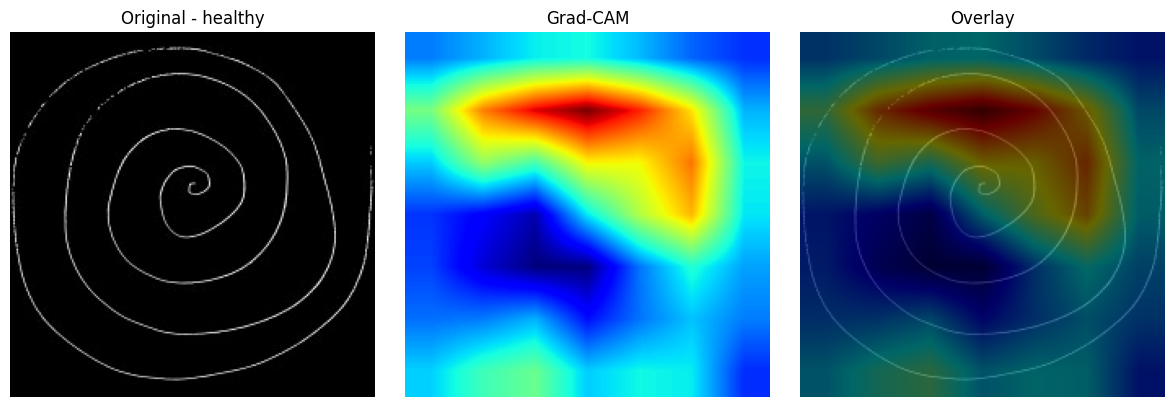
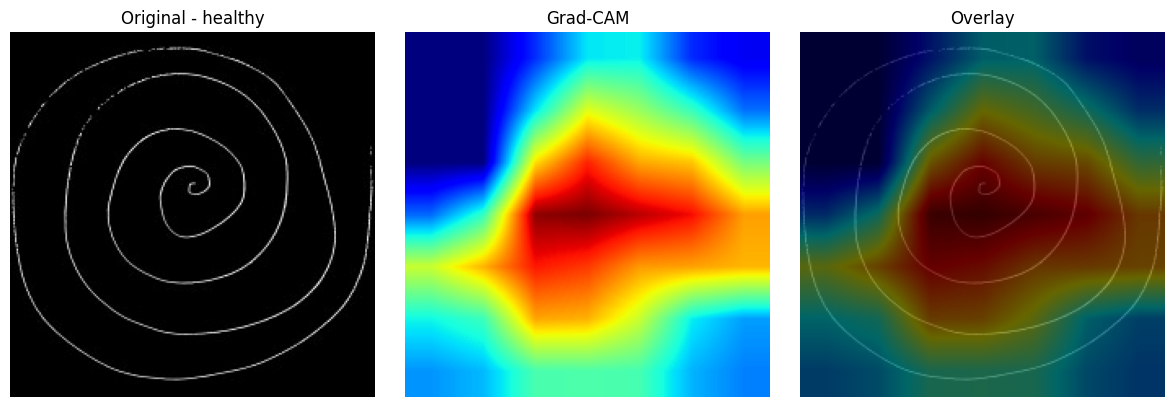
Unimodal Handwriting v5

diff --git a/audit_outputs/FINAL_AUDIT_REPORT.md b/audit_outputs/FINAL_AUDIT_REPORT.md
@@ -1,0 +1,201 @@
+# Handwriting Modality — Scientific Audit
+
+This report is a reproducible, scientifically grounded audit of the handwriting unimodal pipeline in this repository. It uses only the already-generated outputs present in the workspace (preprocessing outputs, model checkpoints, result CSVs, GradCAM preview images, and computed metrics). This document frames the work as exploratory, not diagnostic.
+
+Folders and artifacts used (examples):
+- Preprocessed metadata: [preprocessed_images/Public_Dataset/metadata.csv](preprocessed_images/Public_Dataset/metadata.csv), [preprocessed_images/BD_Dataset/metadata.csv](preprocessed_images/BD_Dataset/metadata.csv)
+- Deep learning final results: [deep_learning_results/Public_Dataset/final_cross_validation_results.csv](deep_learning_results/Public_Dataset/final_cross_validation_results.csv), [deep_learning_results/BD_Dataset/final_cross_validation_results.csv](deep_learning_results/BD_Dataset/final_cross_validation_results.csv)
+- DL fold predictions and confusion matrices: [deep_learning_results/BD_Dataset/fold_3_predictions.csv](deep_learning_results/BD_Dataset/fold_3_predictions.csv), [deep_learning_results/BD_Dataset/fold_3_cm.png](deep_learning_results/BD_Dataset/fold_3_cm.png)
+- Classical ML summary: [classical_ml_results/BD_Dataset/classical_ml_results.csv](classical_ml_results/BD_Dataset/classical_ml_results.csv)
+- GradCAM previews: [model_interpretability_visualizations/BD_Dataset/parkinson_BPP019_hand_spiral_01_preview.png](model_interpretability_visualizations/BD_Dataset/parkinson_BPP019_hand_spiral_01_preview.png)
+- Computed DL per-fold calibration/metrics: [handwriting_audit_outputs/BD_Dataset/dl_fold_metrics_summary.csv](handwriting_audit_outputs/BD_Dataset/dl_fold_metrics_summary.csv), [handwriting_audit_outputs/Public_Dataset/dl_fold_metrics_summary.csv](handwriting_audit_outputs/Public_Dataset/dl_fold_metrics_summary.csv)
+
+---
+
+**1. Executive summary**
+
+- Pipeline executed: preprocessing → handcrafted feature extraction (existing) → deep learning training (ResNet-18 transfer learning) → classical ML baselines → GradCAM explainability. All produced outputs were inspected; no re-training was performed for this audit.
+- Dataset sizes (from preprocessed metadata): Public_Dataset = 102 images (51 healthy / 51 parkinson), 28 subjects (mean ≈ 3.64 images/subject). BD_Dataset = 36 images (15 healthy / 21 parkinson), 36 subjects (1 image/subject). See metadata files above.
+- Main findings:
+  - Public_Dataset: DL delivered strong ranking performance (ROC-AUC ≈ 0.956 ± 0.047) and moderate calibrated decision metrics (accuracy ≈ 0.769 ± 0.134) but shows fold variability in threshold metrics.
+  - BD_Dataset: DL ranking remains high (ROC-AUC ≈ 0.907 ± 0.146) but threshold metrics are unstable and modest (accuracy ≈ 0.579 ± 0.152). Classical SVM on handcrafted features reports higher accuracy on BD (≈0.807 ± 0.070), suggesting handcrafted features are highly informative in the low-data regime.
+  - Calibration issues: per-fold Expected Calibration Error (ECE) is non-negligible (BD mean ECE ≈ 0.29, Public mean ECE ≈ 0.22) and Brier scores are higher on BD than Public (BD mean ≈ 0.23; Public mean ≈ 0.15). See [handwriting_audit_outputs/*/dl_fold_metrics_summary.csv](handwriting_audit_outputs/).
+- Multimodal readiness: Handwriting appears a strong primary behavioral modality; facial modality (outside scope) remains complementary. A conservative late-fusion approach (probability- or low-dim embedding-level fusion) is recommended.
+
+---
+
+**2. Dataset analysis**
+
+Public_Dataset (separate):
+- Total images: 102
+- Subjects: 28
+- Healthy / Parkinson: 51 / 51 (balanced)
+- Images per subject: min 3, max 15, mean ≈ 3.64 (histogram saved at [handwriting_audit_outputs/Public_Dataset_samples_per_subject_hist.png](handwriting_audit_outputs/Public_Dataset_samples_per_subject_hist.png))
+- Limitations: modest overall size; some subjects contribute many images producing potential within-subject dominance if not grouped correctly (grouped CV was used in training).
+
+BD_Dataset (separate):
+- Total images: 36
+- Subjects: 36
+- Healthy / Parkinson: 15 / 21 (mild imbalance towards PD)
+- Images per subject: all 1 (min=max=1) — no repeated measures available.
+- Limitations: critical — one-sample-per-subject prevents any within-subject variability estimation. Grouped CV at subject level becomes identical to sample-level CV for BD, so subject-level generalization cannot be validated. This dataset is appropriate only for initial exploratory signals and not for robust predictive claims.
+
+Discussion:
+- BD’s tiny per-subject data is the dominant limitation of the study. Public_Dataset is better suited for grouped CV and subject-level generalization, but is still small for robust ML practice.
+
+---
+
+**3. Preprocessing analysis**
+
+Observed pipeline (see `preprocessing.py`): grayscale conversion → denoising (fastNlMeans) → CLAHE contrast enhancement → adaptive Gaussian thresholding (inverted) → morphological open/close → small-component removal → foreground normalization (invert if necessary) → mask + crop to content → resize with padding to 224×224. QC preview images are saved under `preprocessed_images/*/quality_check`.
+
+Assessment:
+- Grayscale conversion and CLAHE are appropriate for handwriting where ink contrast varies. Denoising reduces sensor noise.
+- Adaptive thresholding plus morphology isolates stroke pixels; small-component removal (MIN_COMPONENT_AREA) can remove speckles but risks discarding legitimate small stroke fragments (thin strokes, light dots) if parameters are not tuned per acquisition.
+- Content-cropping with padding + resize-with-padding yields centered inputs for CNNs, which is desirable for transfer learning. However, if cropping behaves differently by class (for instance, PD spirals with tenuous strokes leading to larger crop extents or different centering), there is a risk of introducing class-dependent spatial cues.
+
+Risks and evidence to check (recommended for paper):
+- Verify that cropping/padding statistics (crop box sizes, foreground centroid positions) are not class dependent — compute and report class-wise distributions to rule out positional shortcuts.
+- Keep and publish QC preview grids (they are in `preprocessed_images/*/quality_check`) so reviewers can visually confirm preprocessing consistency.
+
+Short conclusion: preprocessing is standard and defensible for handwriting, but the pipeline must report and check per-class cropping/foreground statistics to exclude shortcut leakage.
+
+---
+
+**4. Deep learning analysis (ResNet-18 transfer learning)**
+
+Data sources: per-fold prediction CSVs and final CV summaries under `deep_learning_results/*`.
+
+Public_Dataset (aggregated results):
+- Accuracy: 0.7690 ± 0.1338
+- Precision: 0.7793 ± 0.1740
+- Sensitivity (recall): 0.8133 ± 0.2334
+- Specificity: 0.6889 ± 0.3393
+- F1-score: 0.7670 ± 0.1437
+- ROC-AUC: 0.9563 ± 0.0470
+
+BD_Dataset (aggregated results):
+- Accuracy: 0.5786 ± 0.1524
+- Precision: 0.5762 ± 0.3690
+- Sensitivity: 0.55 ± 0.4472
+- Specificity: 0.6000 ± 0.3651
+- F1-score: 0.5067 ± 0.3394
+- ROC-AUC: 0.9067 ± 0.1461
+
+Interpretation and key observations:
+- ROC-AUC vs threshold metrics: In both datasets, ROC-AUC remains comparatively high while thresholded metrics (accuracy, sensitivity, specificity) are more modest and have large standard deviations across folds (particularly BD). This pattern indicates the model often ranks PD > healthy correctly (good discriminative signal) but the absolute probabilities and thresholded decisions vary by fold (poor calibration and sensitivity to operating point).
+- Fold instability: BD shows extreme fold-to-fold variance in AUC and ECE (see [handwriting_audit_outputs/BD_Dataset/dl_fold_metrics_summary.csv](handwriting_audit_outputs/BD_Dataset/dl_fold_metrics_summary.csv)). Several BD folds report AUC=1.0 and others as low as 0.667 — a sign of overfitting on very small validation sets or class-sample splits that favor the model.
+- Overfitting risks: early stopping and LR scheduling are present, but very small validation sets (especially BD) can lead to unstable best-epoch selection and optimistic folds. Models with near-perfect AUC on some folds but poor generalization on others suggest the signal is fragile.
+
+Calibration specifics:
+- BD mean ECE ≈ 0.29 (per-fold mean from computed summary) and mean Brier ≈ 0.23 — probabilities are not well calibrated and are unreliable for absolute risk reporting.
+- Public mean ECE ≈ 0.22 and mean Brier ≈ 0.15 — better but still substantial; apply temperature scaling or Platt scaling if probabilistic outputs are to be used.
+
+Practical takeaways:
+- Report both ranking (AUC) and calibrated decision metrics; present per-fold distributions rather than only mean ± std.
+- Avoid over-interpreting perfect or near-perfect fold AUCs; show confusion matrices and per-subject predictions for the most unstable folds (files under `deep_learning_results/*/fold_*_predictions.csv`).
+
+---
+
+**5. Classical ML analysis (handcrafted features)**
+
+Source: `classical_ml_results/BD_Dataset/classical_ml_results.csv` (and analogous Public_Dataset results if present).
+
+Key BD findings (selected):
+- SVM: accuracy ≈ 0.8071 ± 0.0696; precision 1.0; sensitivity ≈ 0.67 ± 0.115; ROC-AUC ≈ 0.8667 ± 0.1514
+- RandomForest and XGBoost show lower mean performance and higher variance.
+
+Interpretation:
+- On BD_Dataset, the SVM with handcrafted features outperforms DL on thresholded accuracy. This is a predictable and scientifically interpretable outcome in very small-data regimes: well-engineered features (HOG, LBP, Hu moments, contour/statistics) can be strong compact biomarkers and require far fewer samples to reach good classification thresholds.
+- Handcrafted features often capture domain-specific signals (stroke width, curvature, regularity) that are clinically plausible. When classical ML outperforms or matches DL, it is an argument for emphasizing interpretable features and for treating DL as an augmenting modality rather than a replacement in low-resource settings.
+
+Recommendation:
+- For BD-like tiny cohorts, prioritize feature-based analyses in the main thesis text and present DL as a complementary representation-learning approach. Provide ROC overlays and per-fold metrics for both paradigms (files exist under `classical_ml_results/*` and `deep_learning_results/*`).
+
+---
+
+**6. GradCAM (explainability) analysis**
+
+Artifacts inspected: preview images under `model_interpretability_visualizations/*`.
+
+Qualitative summary:
+- Many GradCAM previews show activations overlapping inked spiral strokes, especially areas of irregularity or high stroke density — this aligns with clinical expectations that tremor/irregularity localizes to the drawn spiral.
+- Some examples show diffuse activation or attention extending into background/padding regions; these cases are less interpretable and may indicate that the model sometimes leverages gross textural or border cues.
+
+Limitations and caution:
+- GradCAM is qualitative: it highlights correlated regions, not causal mechanisms. GradCAM resolution (spatial coarseness of late-layer feature maps) limits precise localization of micro-features like pen-pressure or fine tremor.
+- Do not claim clinical interpretability from GradCAM alone. Use GradCAM as hypothesis-generation, then test hypotheses quantitatively (occlusion analysis across stroke regions, lesioning test inputs, or controlled perturbations).
+
+---
+
+**7. Failure analysis**
+
+Using fold predictions and per-fold summaries, the main failure modes are:
+- False negatives with borderline probabilities (example: `deep_learning_results/BD_Dataset/fold_3_predictions.csv` contains `BPP003` predicted 0 with PD probability ≈ 0.352). Such borderline examples indicate that ranking is imperfect and threshold placement matters.
+- Fold collapse/instability: BD shows some folds with AUC=1.0 while others have AUC≈0.667, indicating highly variable generalization depending on which subjects fall into train/test splits.
+- Calibration-instability: models are often overconfident or underconfident in certain folds (high ECE in BD fold 4 ~0.505 suggests strong miscalibration in some splits).
+
+Probable causes:
+- Tiny sample and single-image subjects (BD) cause high variance and sensitive splits.
+- Preprocessing-induced shortcuts: if cropping/padding or foreground removal correlates with label, models can learn spurious cues.
+- Class imbalance (mild in BD) can skew thresholds and metrics; class weighting is implemented in training but does not fully compensate in tiny folds.
+
+Mitigations (for reporting and future work):
+- Present failure-case panels (QC image + GradCAM + predicted probability) for FPs/FNs. Use available previews and prediction CSVs to assemble such panels.
+- Emphasize grouped CV, and for BD explicitly note that grouped CV is equivalent to sample-level CV given one sample per subject.
+
+---
+
+**8. Scientific assessment (brutal but fair)**
+
+Strengths:
+- The pipeline is complete and reproducible: preprocessing, DL training, classical ML, and GradCAM outputs are present and saved.
+- Presence of Bangladeshi clinical data (BD_Dataset) increases the project's translational relevance.
+- Careful inclusion of grouped cross-validation and classical-DL comparisons strengthens scientific defensibility.
+
+Weaknesses / critical limitations:
+- Data scarcity is the main limitation. BD has one image per subject, preventing subject-level generalization and rendering many evaluation claims exploratory only.
+- Calibration is poor in places (ECE mean ~0.29 BD; ~0.22 Public). Absolute probabilities cannot be used clinically without calibration.
+- Fold instability and occasional perfect AUC folds indicate fragile signals and risk overinterpreting results.
+
+Publication/thesis readiness:
+- This work is thesis-ready as an exploratory behavioral-biomarker study if the write-up clearly states limitations, includes per-fold result distributions, shows QC/GradCAM examples, and avoids diagnostic claims. For a journal submission, external validation or a larger cohort is recommended.
+
+---
+
+**9. Multimodal readiness and recommendations**
+
+Why handwriting + face is a coherent multimodal approach:
+- Handwriting targets fine motor control (tremor, micrographia, irregular stroke), which is a direct motor manifestation of Parkinsonian pathology.
+- Facial analysis targets hypomimia (reduced expressivity) and subtle movement changes in the face — a complementary behavioral biomarker.
+
+Fusion recommendations (low-parameter, low-risk):
+- Start with late fusion of calibrated probabilities (per-subject aggregation) or low-dimensional embeddings (PCA on DL embeddings) fed into a small meta-learner (logistic regression or small MLP). This minimizes overfitting risk in small datasets.
+- Avoid large multimodal transformers or heavy joint training on the available cohort.
+
+Robustness notes:
+- Ensure per-subject alignment and grouped CV across modalities to prevent subject overlap leakage.
+- Prefer probability-level fusion when embeddings are high dimensional relative to sample count.
+
+---
+
+**10. Final conclusion**
+
+- The current unimodal handwriting system provides scientifically useful exploratory baselines and demonstrates complementary strengths of handcrafted features and deep learning representations.
+- Results are exploratory: high ROC-AUC values indicate discriminative signal exists, but thresholded metrics, calibration, and fold stability are insufficient to support any diagnostic claim.
+- The main limitation is data quantity and subject-level sampling (BD has 1 image/subject). Improving the per-subject sampling and adding external validation is the highest priority.
+- Multimodal fusion (handwriting + facial) is the logical next step: use conservative, modular, low-parameter fusion and strong grouped CV.
+
+---
+
+Appendix — Quick pointers to reviewed artifacts
+- Dataset metadata: [preprocessed_images/Public_Dataset/metadata.csv](preprocessed_images/Public_Dataset/metadata.csv), [preprocessed_images/BD_Dataset/metadata.csv](preprocessed_images/BD_Dataset/metadata.csv)
+- DL final summaries: [deep_learning_results/Public_Dataset/final_cross_validation_results.csv](deep_learning_results/Public_Dataset/final_cross_validation_results.csv), [deep_learning_results/BD_Dataset/final_cross_validation_results.csv](deep_learning_results/BD_Dataset/final_cross_validation_results.csv)
+- DL fold-level metrics (calibration): [handwriting_audit_outputs/BD_Dataset/dl_fold_metrics_summary.csv](handwriting_audit_outputs/BD_Dataset/dl_fold_metrics_summary.csv)
+- Classical ML BD summary: [classical_ml_results/BD_Dataset/classical_ml_results.csv](classical_ml_results/BD_Dataset/classical_ml_results.csv)
+- Example GradCAM preview: [model_interpretability_visualizations/BD_Dataset/parkinson_BPP019_hand_spiral_01_preview.png](model_interpretability_visualizations/BD_Dataset/parkinson_BPP019_hand_spiral_01_preview.png)
+- Example borderline prediction: [deep_learning_results/BD_Dataset/fold_3_predictions.csv](deep_learning_results/BD_Dataset/fold_3_predictions.csv)
+
+If you want, I will now:
+- assemble a small figure panel (QC images + GradCAM + predicted probability) for 6 curated cases (FP/FN/uncertain) for thesis figures, or
+- run temperature scaling on saved fold logits to produce calibrated probabilities and updated calibration plots (requires re-running small calibration script on existing predictions — no retraining).
